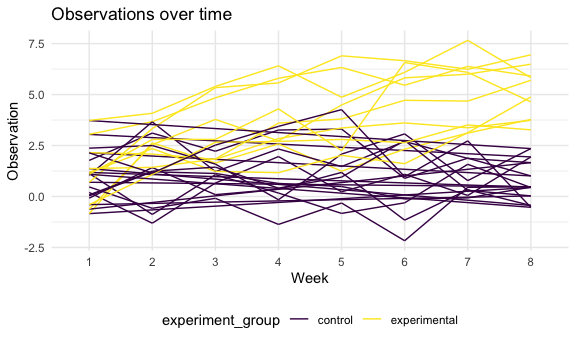
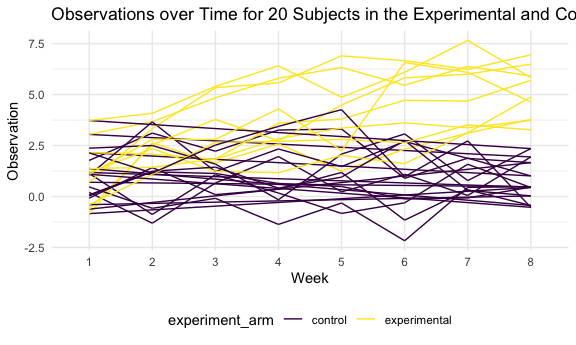
Spaghetti description, and minor variable name adjustments in problem 2

diff --git a/p8105_hw5_aps2204.md b/p8105_hw5_aps2204.md
@@ -113,9 +113,9 @@ path_df =
   
   separate(subject_id, into = c("exp_id", "throwaway"), sep = ".csv") %>% 
   select(-"throwaway") %>% 
-  separate(exp_id, into = c("experiment_group", "subject_id"), sep = "_") %>% 
+  separate(exp_id, into = c("experiment_arm", "subject_id"), sep = "_") %>% 
   mutate(
-    experiment_group = recode(experiment_group, con = "control", exp = "experimental")
+    experiment_arm = recode(experiment_arm, con = "control", exp = "experimental")
   ) %>% 
   view()
 ```
@@ -354,10 +354,10 @@ pivot_longer(week_1:week_8,
                names_to = "week",
                names_prefix = "week_",
                values_to = "observation") %>% 
-   ggplot(aes(x = week, y = observation, group = subject_id, color = experiment_group)) +
+   ggplot(aes(x = week, y = observation, group = subject_id, color = experiment_arm)) +
    geom_path() +
   labs(
-    title = "Observations over time",
+    title = "Observations over Time for 20 Subjects in the Experimental and Control Study Arms",
     x = "Week",
     y = "Observation"
   ) + 
@@ -365,3 +365,11 @@ pivot_longer(week_1:week_8,
 ```
 
 <img src="p8105_hw5_aps2204_files/figure-gfm/unnamed-chunk-7-1.png" width="90%" />
+Based on this plot, is apparent that the experimental arm of the study
+has higher observed values on average than the control arm. Further, the
+experimental arm appears to have an overall upward trend over time,
+while the control arm appears to have an overall downward trend over
+time. The spread of observations in both arms appears to decrease
+between weeks 7 and 8, though this may simply be a product of how the
+data is not displayed after week 8. The experimental arm appears to
+display the same amount of spread as the control arm.
